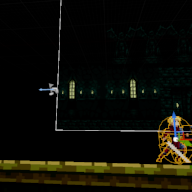
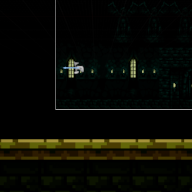
explorer screen + inventory groundworks

diff --git a/Source/TG/UI/TGHUD.cpp b/Source/TG/UI/TGHUD.cpp
@@ -7,6 +7,7 @@
 #include "TG/Controllers/ExploreController.h"
 #include "Components/Button.h"
 #include "Kismet/GameplayStatics.h"
+#include "ExplorerMode/ExplorerModeScreen.h"
 
 void ATGHUD::BeginPlay()
 {
@@ -21,6 +22,15 @@ void ATGHUD::BeginPlay()
 void ATGHUD::InitializeWidgets()
 {
 
+	if (ExplorerModeScreenClass != nullptr)
+	{
+		refExplorerModeScreen = CreateWidget<UExplorerModeScreen>(GetWorld(), ExplorerModeScreenClass);
+		if (refExplorerModeScreen != nullptr)
+		{
+			refExplorerModeScreen->AddToViewport();
+		}
+	}
+
 	if (IngameMenuClass != nullptr)
 	{
 		refIngameMenu = CreateWidget<UIngameMenu>(GetWorld(), IngameMenuClass);
@@ -34,6 +44,7 @@ void ATGHUD::InitializeWidgets()
 	{
 		UE_LOG(LogTemp, Error, TEXT("set the BP widget in TGHUD BP"));
 	}
+
 
 	// 	if (IngameInventoryMenu!= nullptr)
 	// 	{
@@ -89,6 +100,11 @@ void ATGHUD::IngameMenuOpen()
 		FInputModeUIOnly InputMode;
 		refExplorePlayerController->SetInputMode(InputMode);
 		UGameplayStatics::SetGamePaused(this, true);
+
+		if (refExplorerModeScreen != nullptr)
+		{
+			refExplorerModeScreen->SetVisibility(ESlateVisibility::Hidden);
+		}
 	
 }
 
@@ -100,13 +116,15 @@ void ATGHUD::IngameMenuClose()
 	checkSlow(refIngameMenu->GetVisibility() == ESlateVisibility::Visible); // only want to closed from open
 	refIngameMenu->SetVisibility(ESlateVisibility::Hidden);
 
-
-
 		refExplorePlayerController->bShowMouseCursor = false;
 		FInputModeGameOnly InputMode;
 		refExplorePlayerController->SetInputMode(InputMode);
 		UGameplayStatics::SetGamePaused(this, false);
-
+		
+		if (refExplorerModeScreen != nullptr)
+		{
+			refExplorerModeScreen->SetVisibility(ESlateVisibility::Visible);
+		}
 }
 
 void ATGHUD::IngameMenu_ReturnButtonClicked()

diff --git a/Source/TG/UI/TGHUD.h b/Source/TG/UI/TGHUD.h
@@ -47,6 +47,9 @@ protected:
 	UPROPERTY(EditAnywhere, BlueprintReadWrite)
 		TSubclassOf<class UIngameInventoryMenu> IngameInventoryMenu;
 
+	UPROPERTY(EditAnywhere, BlueprintReadWrite)
+		TSubclassOf<class UExplorerModeScreen> ExplorerModeScreenClass;
+
 
 	/* ###########################################################
 						widgets refs
@@ -54,6 +57,7 @@ protected:
 
 	class UIngameMenu* refIngameMenu;
 	class UIngameInventoryMenu* refIngameInventoryMenu;
+	class UExplorerModeScreen* refExplorerModeScreen;
 	 /* #########################END############################## */
 
 	/* ###########################################################

diff --git a/Source/TG/UI/ExplorerMode/ExplorerModeScreen.h b/Source/TG/UI/ExplorerMode/ExplorerModeScreen.h
@@ -1,0 +1,17 @@
+// Fill out your copyright notice in the Description page of Project Settings.
+
+#pragma once
+
+#include "CoreMinimal.h"
+#include "Blueprint/UserWidget.h"
+#include "ExplorerModeScreen.generated.h"
+
+/**
+ * 
+ */
+UCLASS()
+class TG_API UExplorerModeScreen : public UUserWidget
+{
+	GENERATED_BODY()
+	
+};

diff --git a/Source/TG/UI/ExplorerMode/InventoryWidget.h b/Source/TG/UI/ExplorerMode/InventoryWidget.h
@@ -1,0 +1,17 @@
+// Fill out your copyright notice in the Description page of Project Settings.
+
+#pragma once
+
+#include "CoreMinimal.h"
+#include "Blueprint/UserWidget.h"
+#include "InventoryWidget.generated.h"
+
+/**
+ * 
+ */
+UCLASS()
+class TG_API UInventoryWidget : public UUserWidget
+{
+	GENERATED_BODY()
+	
+};

diff --git a/Source/TG/UI/ExplorerMode/InventorySlot.h b/Source/TG/UI/ExplorerMode/InventorySlot.h
@@ -1,0 +1,17 @@
+// Fill out your copyright notice in the Description page of Project Settings.
+
+#pragma once
+
+#include "CoreMinimal.h"
+#include "Blueprint/UserWidget.h"
+#include "InventorySlot.generated.h"
+
+/**
+ * 
+ */
+UCLASS()
+class TG_API UInventorySlot : public UUserWidget
+{
+	GENERATED_BODY()
+	
+};

diff --git a/Source/TG/UI/ExplorerMode/ExplorerModeScreen.cpp b/Source/TG/UI/ExplorerMode/ExplorerModeScreen.cpp
@@ -1,0 +1,5 @@
+// Fill out your copyright notice in the Description page of Project Settings.
+
+
+#include "ExplorerModeScreen.h"
+

diff --git a/Source/TG/UI/ExplorerMode/InventoryWidget.cpp b/Source/TG/UI/ExplorerMode/InventoryWidget.cpp
@@ -1,0 +1,5 @@
+// Fill out your copyright notice in the Description page of Project Settings.
+
+
+#include "InventoryWidget.h"
+

diff --git a/Source/TG/UI/ExplorerMode/InventorySlot.cpp b/Source/TG/UI/ExplorerMode/InventorySlot.cpp
@@ -1,0 +1,5 @@
+// Fill out your copyright notice in the Description page of Project Settings.
+
+
+#include "InventorySlot.h"
+
